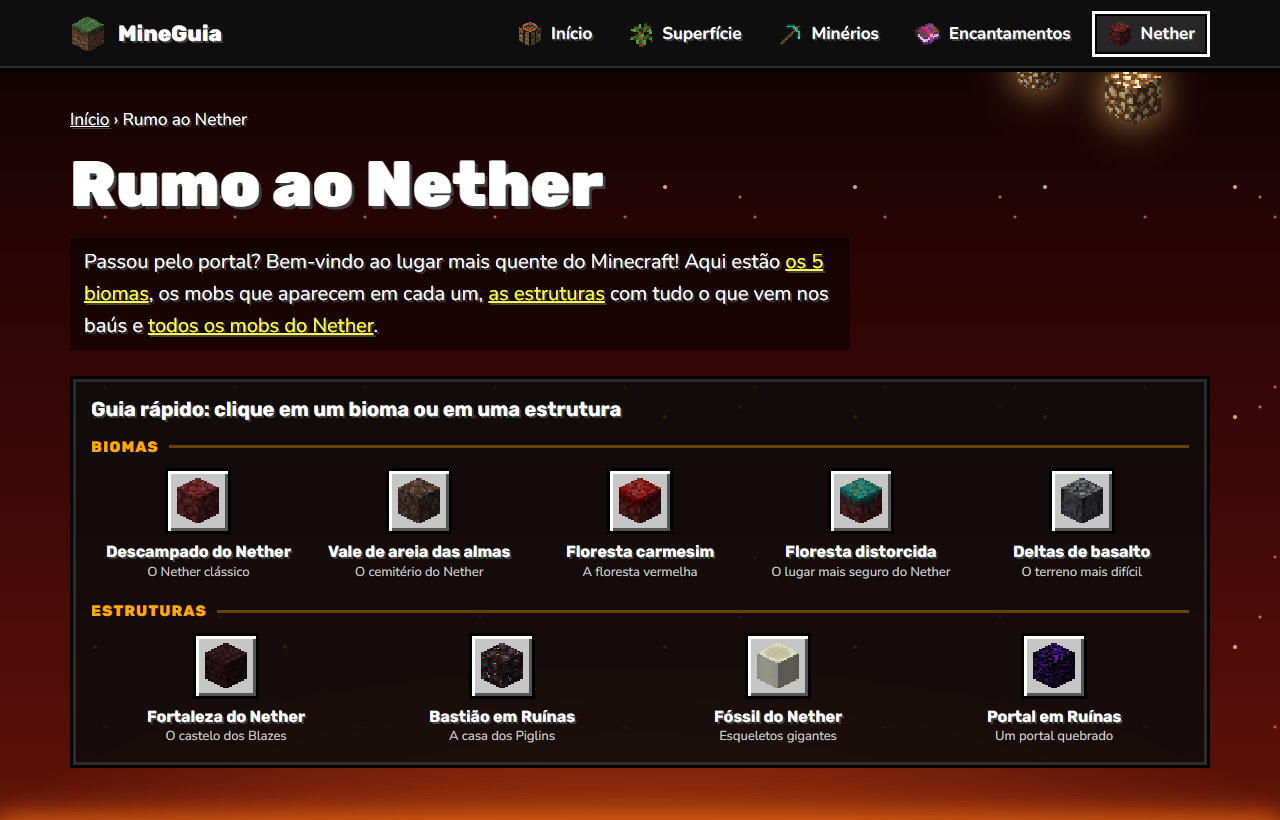
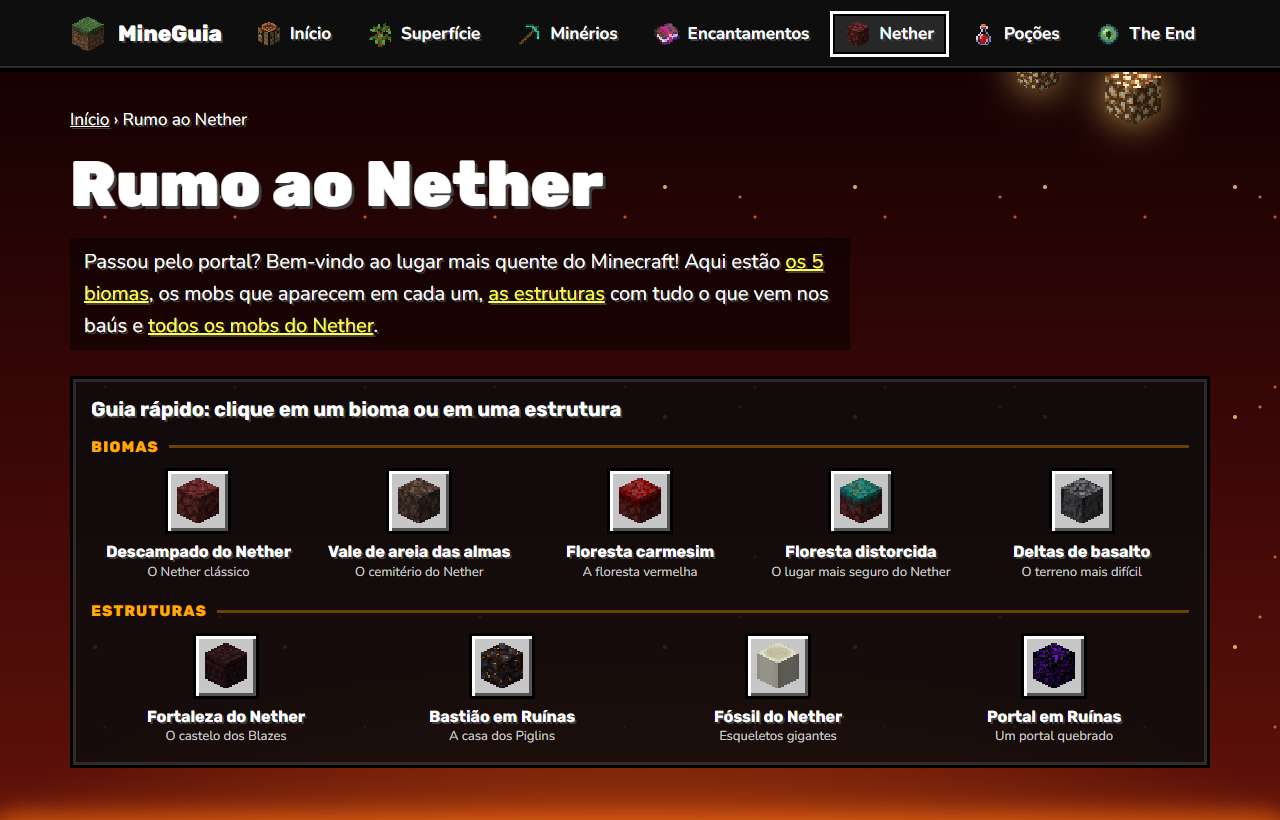
Atualiza o README com Poções, The End e capturas novas
- Seções de As Poções e The End, tabelas, estrutura e fontes
- Todas as imagens refeitas com o visual atual do site

Changed region(s): [[0.4062, 0.0, 0.9688, 0.0915], [0.1875, 0.0305, 0.375, 0.061]]

diff --git a/README.md b/README.md
@@ -29,14 +29,16 @@ imagens dos itens do próprio jogo, números conferidos e uma interface que pare
 - [Calculadora de kit](#calculadora-de-kit)
 - [Receitas e dicas](#receitas-e-dicas)
 - [Trocas com os aldeões](#trocas-com-os-aldeões)
-- [Encantamentos sem mistério](#encantamentos-sem-mistério)
+- [Os Encantamentos](#os-encantamentos)
 - [Rumo ao Nether](#rumo-ao-nether)
+- [As Poções](#as-poções)
+- [The End](#the-end)
 - [No celular](#no-celular)
 - [Identidade visual](#identidade-visual)
 - [Como rodar](#como-rodar)
 - [Estrutura do projeto](#estrutura-do-projeto)
 - [De onde vêm os dados](#de-onde-vêm-os-dados)
-- [Próximos guias](#próximos-guias)
+- [Os guias do site](#os-guias-do-site)
 - [Tecnologias](#tecnologias)
 - [Autor e créditos](#autor-e-créditos)
 
@@ -65,17 +67,19 @@ O projeto segue seis princípios:
 | **Calculadora de kit** | Você marca as peças que quer e ela soma só o que você precisa — até o carvão da fornalha. |
 | **Receitas** | A posição de cada item na grade 3×3 da bancada e os upgrades na mesa de ferraria. |
 | **Trocas com os aldeões** | O que cada um dos 13 profissionais e o mercador ambulante faz, a estação de trabalho de cada um e todas as trocas em ordem, do nível Novato ao Mestre. |
-| **Encantamentos sem mistério** | O melhor encantamento para cada item com um clique, como usar a mesa de encantamentos, a bigorna e o rebolo, e todos os 43 encantamentos do jogo, nível por nível. |
+| **Os Encantamentos** | O melhor encantamento para cada item com um clique, como usar a mesa de encantamentos, a bigorna e o rebolo, e todos os 43 encantamentos do jogo, nível por nível. |
 | **Rumo ao Nether** | Os 5 biomas do Nether e os mobs de cada um, as 4 estruturas com tudo o que vem nos baús e um guia rápido que leva direto ao bioma ou à estrutura. |
+| **As Poções** | Clique numa poção e veja o passo a passo, do frasco de água à versão mais forte, além de como montar o laboratório e as 19 poções do jogo com a duração de cada versão. |
+| **The End** | O jeito mais fácil de derrotar o Dragão de Ender, o kit para levar e tudo o que dá para conseguir no End — com onde encontrar cada coisa e o que vem nos baús das Cidades do End. |
 | **Dicas e curiosidades** | Truques de mineração e fatos divertidos do jogo. |
 
 ## Página inicial e as abas
 
-![Abas da página inicial: A Superfície, Guia até o Topo, Encantamentos sem mistério e Rumo ao Nether no ar, e os próximos guias marcados como "em breve"](docs/img/abas.png)
+![Abas da página inicial: A Superfície, Guia até o Topo, Os Encantamentos, Rumo ao Nether, As Poções e The End](docs/img/abas.png)
 
 - **Céu com chão de grama.** Nuvens andando, sol quadrado e uma fileira de blocos de grama. Ao rolar a página, você "desce" para a terra.
 - **Frase amarela.** Pulsa ao lado do logo, igual à tela inicial do jogo. São 18 frases diferentes; clique nela para trocar.
-- **Abas dos guias.** Os quatro guias prontos vêm primeiro, nesta ordem: A Superfície, Guia até o Topo, Encantamentos sem mistério e Rumo ao Nether, todos com o selo "NOVO!". Depois vêm os próximos, Poções para iniciantes e Derrotando o Ender Dragon, marcados como "EM BREVE", com a ilustração em tons apagados e um bloco de barreira no botão.
+- **Abas dos guias.** Os seis guias, nesta ordem: A Superfície, Guia até o Topo, Os Encantamentos, Rumo ao Nether, As Poções e The End, todos com o selo "NOVO!". Um guia que ainda não está pronto pode aparecer como "EM BREVE", com a ilustração em tons apagados e um bloco de barreira no botão.
 - **Placa "Você sabia?"** Feita com a textura de tábuas de carvalho, mostra curiosidades do jogo que mudam com um clique.
 - **Rodapé de bedrock.** O fundo do mundo é o fim da página.
 
@@ -206,7 +210,7 @@ Logo abaixo da trilha de picaretas, o painel **Quem é quem na vila** funciona d
 - **Mercador ambulante** com o que ele compra, as ofertas especiais e a lojinha de ofertas comuns organizada por preço.
 - Os nomes são os oficiais do jogo em português. Detalhe curioso: o Armorer e o Weaponsmith se chamam os dois "Armeiro" no jogo, por isso aqui eles aparecem como Armeiro de Armaduras e Armeiro de Armas.
 
-## Encantamentos sem mistério
+## Os Encantamentos
 
 ![Seletor "Qual o melhor encantamento?" com a espada escolhida](docs/img/encantamentos.png)
 
@@ -237,11 +241,36 @@ Os mobs, os biomas e as estruturas são chips clicáveis: do bioma você vai par
 
 ![Baús do Bastião em Ruínas com a chance de cada item](docs/img/bau.png)
 
+## As Poções
+
+![Topo da página As Poções com o seletor de poções](docs/img/pocoes.png)
+
+A quinta aba da página inicial, em `pocoes.html`, feita do mesmo jeito que Os Encantamentos.
+
+- **Qual poção você quer fazer?** No topo, as 19 poções que dá para fazer no suporte, separadas em *para você beber*, *para jogar nos inimigos* e *efeitos especiais*. Um clique mostra o **passo a passo** completo: do Frasco de Água até a poção, com cada ingrediente — inclusive as que dependem de outra poção, como a de Invisibilidade, que nasce da de Visão Noturna. Embaixo vêm as versões mais longas (redstone), mais fortes (pedra-luminosa), arremessáveis, prolongadas e as flechas com efeito, e uma tabela com quanto tempo cada versão dura. O link fica no endereço (por exemplo, `pocoes.html#receita-forca`).
+- **Como fazer poções.** O suporte de poções, o pó de blaze, os frascos de água, a Poção Estranha (a base de quase tudo), os modificadores e as flechas com efeito.
+- **Todas as poções.** Um card para cada poção, com o que ela faz, o ingrediente, a duração de cada versão e um botão que leva direto ao passo a passo.
+
+![Passo a passo da Poção de Invisibilidade, da água até as flechas](docs/img/pocao.png)
+
+## The End
+
+![Topo da página The End com o guia rápido](docs/img/end.png)
+
+A sexta aba da página inicial, em `end.html`, com o céu escuro e as torres de obsidiana do End.
+
+- **Guia rápido.** Os 6 passos até o dragão numa trilha, os itens que dá para conseguir no End e os lugares, tudo clicável.
+- **Como derrotar o Dragão de Ender.** Preparar o kit (com o que é essencial e o que só ajuda), achar a fortaleza com os Olhos de Ender, ativar o portal, destruir os 10 cristais, derrotar o dragão e o que fazer depois da vitória. O passo do dragão traz **o jeito mais fácil**, em 5 passos, e o jeito rápido das camas, para quem já tem experiência.
+- **O que dá para conseguir no End.** Élitros, Cabeça do Dragão, Ovo do Dragão, Bafo do Dragão, casco de Shulker, fruta-do-coro, pérolas, cristais do End, purpur, os baús do tesouro e os 12.000 de experiência — com onde encontrar, para que serve e a receita, quando tem.
+- **Os lugares do End.** Ilha principal, Passagens do End, ilhas externas, Cidade do End e Navio do End, com os mobs, os destaques e o que vem nos baús.
+
+![Passo do dragão com o jeito mais fácil e o jeito rápido](docs/img/dragao.png)
+
 ## No celular
 
-![O site no celular: página inicial, card de um bioma da Superfície e guia rápido do Nether](docs/img/celular.png)
+![O site no celular: página inicial, seletor das Poções e guia rápido do The End](docs/img/celular.png)
 
-O layout se adapta de 320 px até telas grandes. A trilha de picaretas, o painel dos aldeões, o seletor de encantamentos e os guias rápidos do Nether e da Superfície viram faixas que deslizam para o lado, o menu mostra só os ícones (e o nome da página atual), os cards e a calculadora se empilham e os slots diminuem para caber na tela, sem rolagem lateral.
+O layout se adapta de 320 px até telas grandes. A trilha de picaretas, o painel dos aldeões, os seletores de encantamentos e de poções e os guias rápidos do Nether, da Superfície e do End viram faixas que deslizam para o lado, o menu mostra só os 7 ícones (a página atual fica com a borda branca), os cards e a calculadora se empilham e os slots diminuem para caber na tela, sem rolagem lateral.
 
 ## Identidade visual
 
@@ -256,7 +285,7 @@ O layout se adapta de 320 px até telas grandes. A trilha de picaretas, o painel
 - Dá para usar tudo pelo teclado, com foco visível; os slots da calculadora são botões com `aria-pressed`.
 - As imagens que trazem informação têm texto alternativo; as ilustrações decorativas ficam escondidas dos leitores de tela.
 - Respeita a opção "reduzir movimento" do sistema, desligando nuvens, itens boiando e animações.
-- É leve para o tanto de conteúdo: 751 imagens que somam cerca de 4,2 MB, sem frameworks e sem etapa de build. As capturas de tela só carregam quando aparecem na tela.
+- É leve para o tanto de conteúdo: 859 imagens que somam cerca de 4,5 MB, sem frameworks e sem etapa de build. As capturas de tela só carregam quando aparecem na tela.
 
 ## Como rodar
 
@@ -289,9 +318,11 @@ E acesse `http://localhost:8000` (ou o endereço que o `serve` mostrar).
 SITE-MINECRAFT/
 ├── index.html             Página inicial: céu, logo, abas dos guias e curiosidades
 ├── minerios.html          Guia até o Topo: quantidades, calculadora, receitas, aldeões e dicas
-├── encantamentos.html     Encantamentos sem mistério: melhor combinação por item, como encantar e todos os encantamentos
+├── encantamentos.html     Os Encantamentos: melhor combinação por item, como encantar e todos os encantamentos
 ├── nether.html            Rumo ao Nether: guia rápido, biomas, estruturas com os baús e mobs
 ├── superficie.html        A Superfície: guia rápido, todos os biomas do mundo normal e as estruturas com os baús
+├── pocoes.html            As Poções: seletor com o passo a passo, como fazer poções e todas as poções
+├── end.html               The End: guia rápido, como derrotar o dragão, o que dá para conseguir e os lugares do End
 ├── css/
 │   ├── style.css          Estilo global: cores, painéis, slots, botões, tooltip, conquistas e página inicial
 │   ├── minerios.css       Estilo do guia, das camadas de minério, da calculadora e das receitas
@@ -299,7 +330,9 @@ SITE-MINECRAFT/
 │   ├── encantamentos.css  Estilo da página de encantamentos
 │   ├── mundo.css          Peças dos guias de mundo (Nether e Superfície): guia rápido, cards, chips de mobs e baús
 │   ├── nether.css         Estilo da página do Nether: céu vermelho, faíscas e a seção de mobs
-│   └── superficie.css     Estilo da página da Superfície: cards dos biomas e grupos de estruturas
+│   ├── superficie.css     Estilo da página da Superfície: cards dos biomas e grupos de estruturas
+│   ├── pocoes.css         Estilo da página das Poções: céu roxo, passo a passo, tabela de durações e cards
+│   └── end.css            Estilo da página do End: céu estrelado, torres, passos, kit e itens
 ├── js/
 │   ├── main.js            Usado em todas as páginas: frase amarela, tooltips, conquistas e curiosidades
 │   ├── dados-minerios.js  Todos os números e textos do guia (é aqui que se edita)
@@ -311,12 +344,17 @@ SITE-MINECRAFT/
 │   ├── dados-nether.js    Biomas, mobs, estruturas e o que vem em cada baú do Nether
 │   ├── nether.js          Monta o guia rápido, os cards dos biomas, das estruturas e dos mobs
 │   ├── dados-superficie.js  Biomas, mobs, estruturas e o que vem em cada baú do mundo normal
-│   └── superficie.js      Monta o guia rápido, os cards dos biomas e das estruturas
+│   ├── superficie.js      Monta o guia rápido, os cards dos biomas e das estruturas
+│   ├── dados-pocoes.js    As 19 poções: ingrediente, de onde vem, durações e textos
+│   ├── pocoes.js          Monta o seletor, o passo a passo, a seção "Como fazer" e a lista de poções
+│   ├── dados-end.js       Passos, kit, itens e lugares do End, com os baús das Cidades do End
+│   └── end.js             Monta o guia rápido, os passos, os itens e os lugares
 ├── assets/img/
 │   ├── itens/             Ícones de itens e blocos, com o ID do jogo no nome (ex.: diamond_sword.png)
 │   ├── texturas/          Texturas de fundo: terra, pedra, ardósia, netherrack, tijolos do Nether, lava, bedrock...
 │   ├── nether/            Capturas de tela dos biomas e das estruturas e o rosto de cada mob do Nether
 │   ├── superficie/        Capturas de tela dos biomas e das estruturas e o rosto de cada mob do mundo normal
+│   ├── end/               Capturas de tela do End e o rosto do dragão, dos Shulkers e dos Endermen
 │   ├── aldeoes/           Retrato e rosto de cada aldeão
 │   └── gui/               Ícones do HUD (armadura e corações) e insígnias de nível dos aldeões
 └── docs/img/              Imagens deste README
@@ -330,18 +368,20 @@ SITE-MINECRAFT/
 - Os encantamentos (nível máximo, itens aceitos, quais não combinam, quais são tesouro ou maldição e os números de cada nível) saíram dos arquivos de dados do próprio jogo, versão 26.3, e os nomes são os oficiais em português.
 - O guia do Nether também saiu dos arquivos do jogo, versão 26.3: os mobs de cada bioma e a frequência de cada um vêm das regras de geração do mundo, as estruturas de cada bioma vêm das listas de estruturas, e as chances dos baús foram calculadas a partir das tabelas de loot (é a chance de o item aparecer em um baú). As capturas de tela são da Minecraft Wiki.
 - O guia da Superfície veio do mesmo lugar: os animais e os monstros de cada bioma, as estruturas de cada bioma e as chances dos baús e da arqueologia (calculadas das tabelas de loot, inclusive as tabelas dentro de tabelas dos cofres das câmaras do desafio). Os nomes de biomas, mobs e itens são os oficiais em português.
+- As receitas e as durações das poções são as da Java Edition 26.3, conferidas nas páginas de poções e de preparo da Minecraft Wiki, com os nomes oficiais em português.
+- No End, as receitas (Olho de Ender, Cristal do End, Caixa de Shulker, purpur, Vara do End), os baús das Cidades do End, os drops dos mobs e os mobs de cada bioma saíram dos arquivos do jogo; a luta contra o dragão foi conferida na Minecraft Wiki (200 de vida, imune a flechas quando pousa, cristais que curam).
 - As contas da calculadora seguem as regras do jogo: 1 carvão funde 8 itens, 2 tábuas fazem 4 gravetos, 1 tronco vira 4 tábuas, cada barra de netherite pede 4 fragmentos e 4 barras de ouro, e copiar um molde custa 7 diamantes e 1 netherrack.
 
-## Próximos guias
+## Os guias do site
 
 | Guia | Situação |
 |:--|:--|
 | A Superfície | ✅ No ar |
 | Guia até o Topo — do cobre à netherite | ✅ No ar |
-| Encantamentos sem mistério | ✅ No ar |
+| Os Encantamentos | ✅ No ar |
 | Rumo ao Nether | ✅ No ar |
-| Poções para iniciantes | ⏳ Em breve |
-| Derrotando o Ender Dragon | ⏳ Em breve |
+| As Poções | ✅ No ar |
+| The End | ✅ No ar |
 
 ## Tecnologias
 
